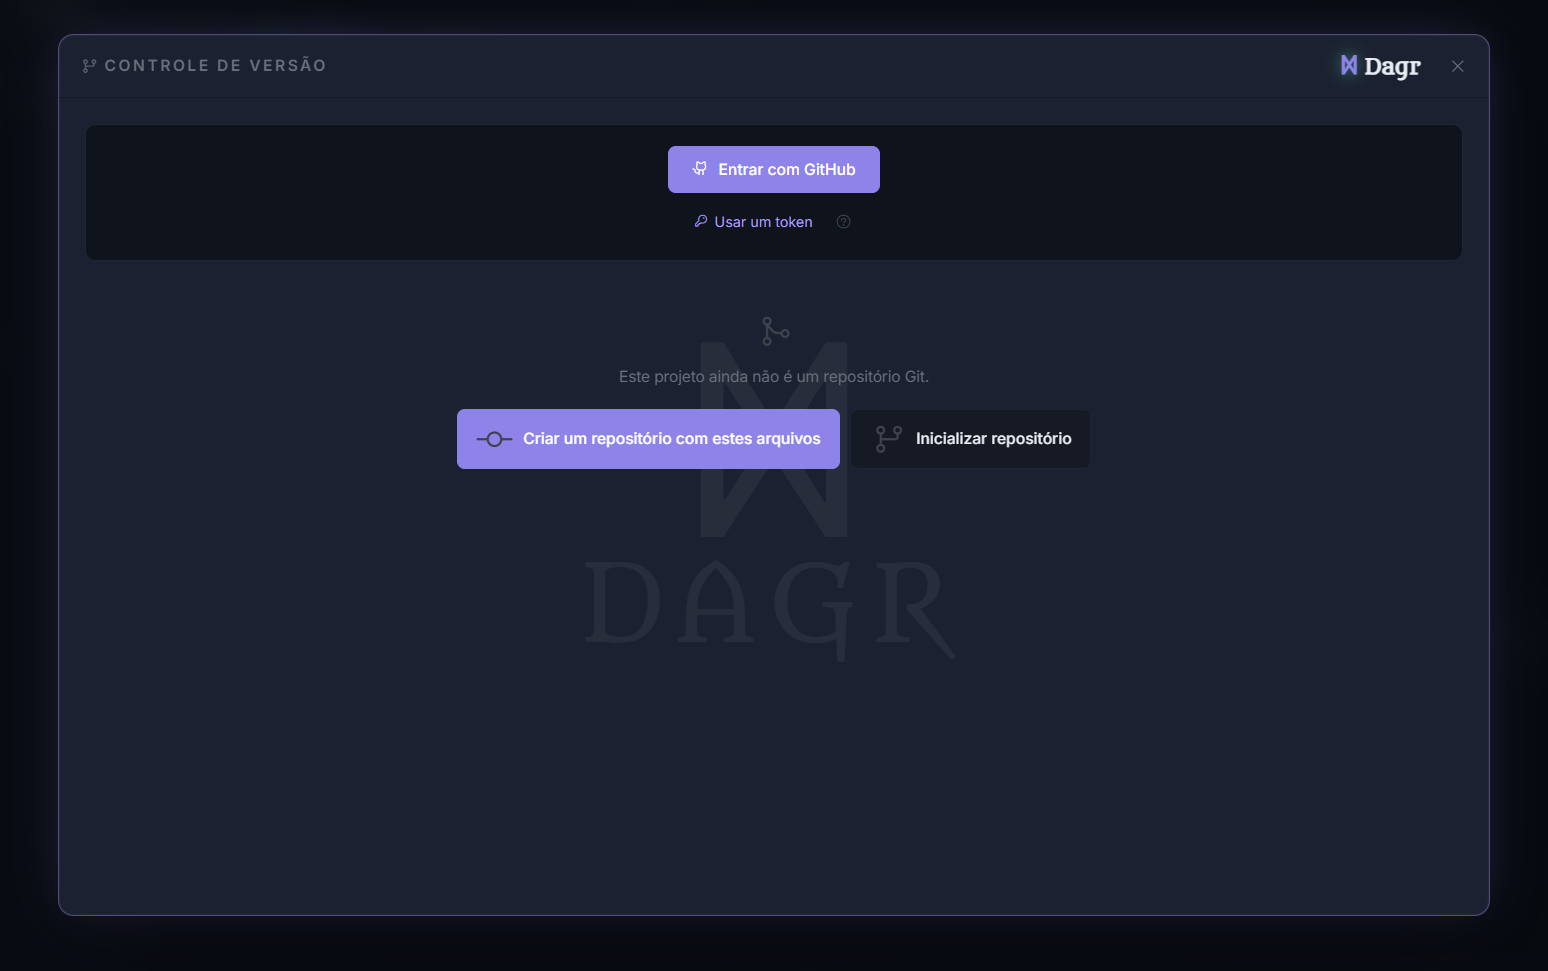
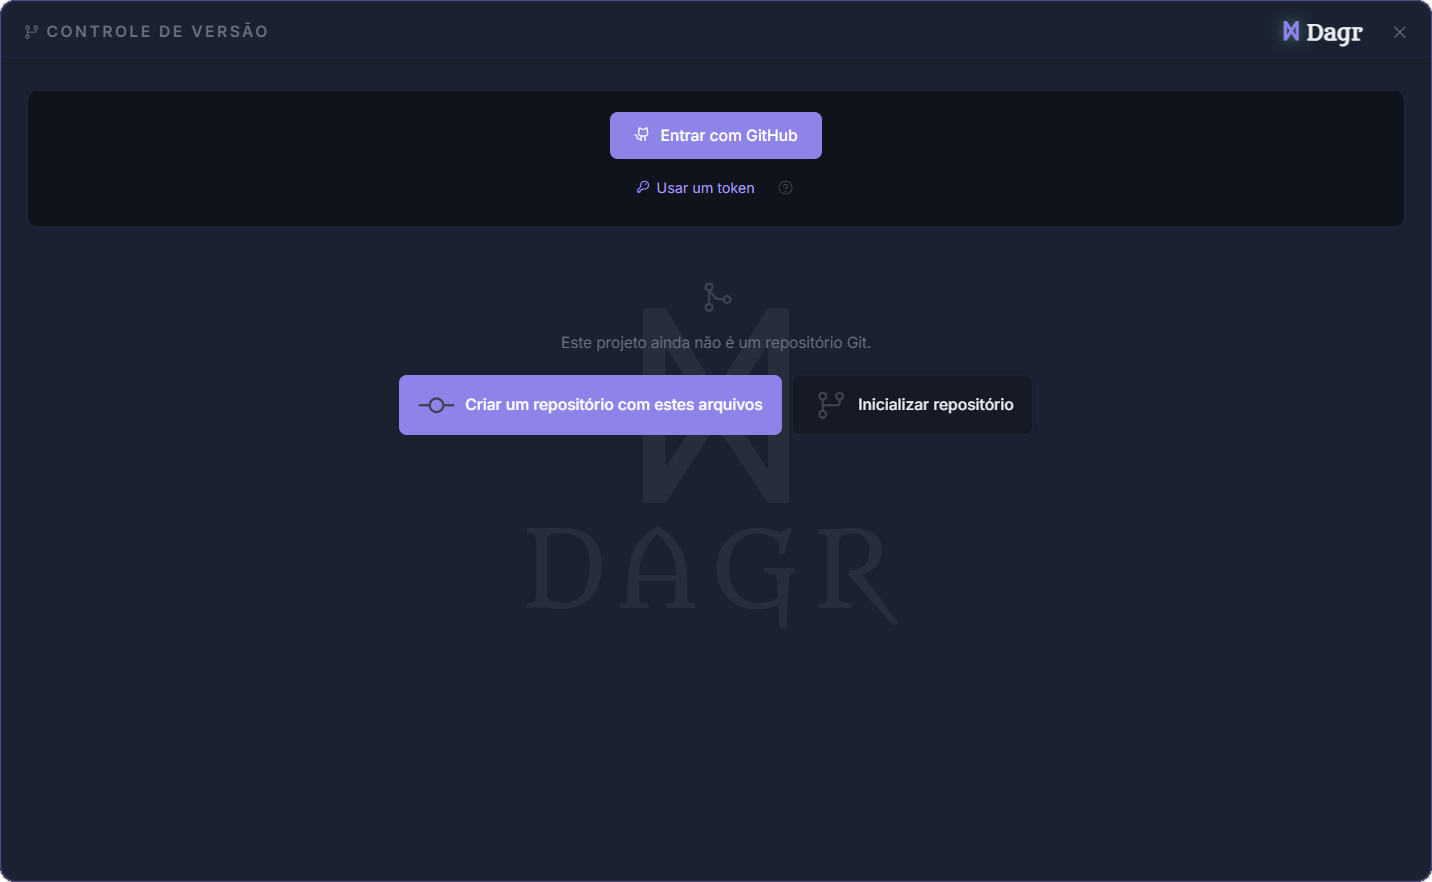
Notacao de Dirac, historico do git e o fluxo de atualizacao em imagem
Entram as tres capturas que faltavam de interface: o editor com a
notacao de Dirac, o painel de controle de versao na aba Historico e a
janela de atualizacao, esta com os tres estados do fluxo (aviso com
changelog, download em progresso e pronta para instalar). Junto vem a
tela de abertura, no capitulo de instalacao.

Entra tambem scripts/enquadrar.py, que corta a sobra de fundo das
capturas e recorta o canto arredondado da janela seguindo o contorno
real, medido a partir das bordas, e nao um raio suposto. Onde o fundo
tem a cor da propria janela e a curva nao aparece por contraste, o raio
medido nos cantos que aparecem vale para os quatro. Rodou nas 60
imagens; as que nao tem moldura nem canto arredondado ficaram como
estavam.

Faltam duas: a onda com delta_float e o PRISM com o divisor, agora com
o passo a passo de captura no IMAGENS.md.

Changed region(s): [[0.0, 0.0, 1.0, 1.0], [0.2765, 0.3673, 0.7067, 0.5204], [0.3994, 0.1224, 0.5838, 0.2449]]

diff --git a/scripts/enquadrar.py b/scripts/enquadrar.py
@@ -1,0 +1,251 @@
+# -*- coding: utf-8 -*-
+"""Enquadra capturas de tela: corta a sobra e recorta o canto arredondado.
+
+Uma captura de janela quase sempre traz uma faixa do que estava atras dela, e
+a janela do Windows tem canto arredondado: recortada no retangulo, ela fica
+com quatro quinas de fundo estranho grudadas, que no manual aparecem como
+sujeira sobre o papel branco do PDF e sobre o tema claro do HTML.
+
+O contorno nao e adivinhado por um raio. O que sai e o que a imagem mostra:
+partindo das quatro bordas, tudo que for da cor do fundo e estiver ligado a
+elas e marcado como lado de fora. Isso segue a curva real do canto, qualquer
+que seja ela, e preserva areas vazias no meio da janela (um painel de arquivos
+sem arquivos, por exemplo), porque essas nao encostam na borda.
+
+O que fica de fora vira transparente; o resto e cortado no retangulo minimo.
+
+Uso:
+    python scripts/enquadrar.py --conferir         so relata
+    python scripts/enquadrar.py --todas            aplica na pasta padrao
+    python scripts/enquadrar.py a.png b.png        aplica nesses arquivos
+"""
+import argparse
+import sys
+from pathlib import Path
+
+import numpy as np
+from PIL import Image, ImageDraw
+from scipy import ndimage
+
+PASTA = Path(__file__).resolve().parent.parent / "source" / "_static" / "assets" / "screenshots"
+
+# Quanto um pixel pode se afastar da cor do fundo e ainda contar como fundo.
+# Baixo demais deixa uma franja da cor do fundo no contorno; alto demais come
+# a borda escura da propria janela.
+TOLERANCIA = 30
+
+# Se o lado de fora ocupar mais que isto, a deteccao provavelmente vazou para
+# dentro da janela por uma passagem da mesma cor, e a imagem fica como esta.
+FRACAO_MAXIMA = 0.45
+
+
+def ja_tratada(caminho):
+    """Uma imagem com canto transparente ja passou por aqui.
+
+    Sem esta guarda, rodar de novo achataria o alfa sobre preto e mediria
+    tudo outra vez em cima do resultado anterior, encolhendo a figura a cada
+    passagem. Assim o comando pode ser repetido a vontade.
+    """
+    im = Image.open(caminho)
+    if im.mode != "RGBA":
+        return False
+    alfa = np.asarray(im)[:, :, 3]
+    return bool((alfa == 0).any())
+
+
+def analisa(caminho):
+    im = Image.open(caminho).convert("RGB")
+    a = np.asarray(im).astype(np.int16)
+    h, w, _ = a.shape
+
+    # O fundo e procurado borda a borda, e nao pelos quatro cantos juntos: um
+    # cartao pode encostar no topo da captura e ter sobra so embaixo, e exigir
+    # que os quatro cantos concordem descartaria justamente esses casos.
+    bordas = {
+        "topo": a[0, :, :],
+        "base": a[h - 1, :, :],
+        "esq": a[:, 0, :],
+        "dir": a[:, w - 1, :],
+    }
+
+    fora = np.zeros((h, w), dtype=bool)
+    usadas = []
+    for nome, linha in bordas.items():
+        cor = np.median(linha, axis=0)
+        # A borda so vale como fundo se for quase toda de uma cor: uma borda
+        # que corta conteudo nao diz nada sobre o que esta atras da janela.
+        if (np.abs(linha - cor).max(axis=1) <= TOLERANCIA).mean() < 0.8:
+            continue
+        parecido = np.abs(a - cor).max(axis=2) <= TOLERANCIA
+        rot, _ = ndimage.label(parecido)
+        if nome == "topo":
+            tocam = set(rot[0, :])
+        elif nome == "base":
+            tocam = set(rot[-1, :])
+        elif nome == "esq":
+            tocam = set(rot[:, 0])
+        else:
+            tocam = set(rot[:, -1])
+        tocam.discard(0)
+        if not tocam:
+            continue
+        candidato = np.isin(rot, list(tocam))
+        # Uma unica borda nao pode reivindicar quase a imagem toda: quando
+        # isso acontece, a varredura atravessou a moldura e entrou na janela.
+        if candidato.mean() > FRACAO_MAXIMA:
+            continue
+        fora |= candidato
+        usadas.append(nome)
+
+    if not usadas:
+        return im, a, None, "sem moldura reconhecivel"
+    if fora.mean() > FRACAO_MAXIMA:
+        return im, a, None, f"deteccao vazou ({fora.mean():.0%} viraria fora)"
+
+    return im, a, fora, None
+
+
+def canto_arredondado(a, alfa, x0, y0, dx, dy, lado):
+    """Marca como fora a curva de um canto, olhando so dentro de uma caixa.
+
+    A varredura global nao serve aqui: numa janela escura sobre uma area de
+    trabalho escura ela atravessa a moldura e come a janela inteira. Presa a
+    uma caixa do tamanho do canto, ela no maximo erra o canto, e o teste de
+    area logo abaixo pega esse erro.
+    """
+    h, w, _ = a.shape
+    caixa = a[y0:y0 + dy * lado:dy, x0:x0 + dx * lado:dx] if False else None
+    ys = range(y0, y0 + lado) if dy > 0 else range(y0, y0 - lado, -1)
+    xs = range(x0, x0 + lado) if dx > 0 else range(x0, x0 - lado, -1)
+    ys = [y for y in ys if 0 <= y < h]
+    xs = [x for x in xs if 0 <= x < w]
+    if not ys or not xs:
+        return 0
+
+    sub = a[np.ix_(ys, xs)].astype(np.int16)
+    cor = sub[0, 0]
+    parecido = np.abs(sub - cor).max(axis=2) <= TOLERANCIA
+
+    rot, _ = ndimage.label(parecido)
+    if rot[0, 0] == 0:
+        return 0
+    fora = rot == rot[0, 0]
+
+    # Quanto um canto pode ocupar nao e chute: a area entre o quadrado e o
+    # arco de raio r vale r*r*(1 - pi/4), cerca de 21% da caixa mesmo quando
+    # o raio e a caixa inteira. Acima disso a caixa tem area lisa, nao canto.
+    if fora.mean() > 0.25:
+        return 0
+
+    for i, y in enumerate(ys):
+        for j, x in enumerate(xs):
+            if fora[i, j]:
+                alfa[y, x] = 0
+    return int(fora.sum())
+
+
+def arredonda_cantos(a, alfa):
+    """Corta os quatro cantos e devolve quantos pixels saíram.
+
+    Quando so alguns cantos se revelam pela cor, o raio medido neles vale para
+    todos: a area entre o quadrado e o arco e r*r*(1 - pi/4), entao o raio sai
+    da contagem de pixels de um canto. E o caso comum de um cartao sobre um
+    fundo quase da mesma cor, em que a curva existe mas nao tem contraste para
+    ser vista de baixo, so de cima.
+    """
+    h, w, _ = a.shape
+    lado = max(8, min(48, min(h, w) // 12))
+    cantos = [
+        canto_arredondado(a, alfa, 0, 0, 1, 1, lado),
+        canto_arredondado(a, alfa, w - 1, 0, -1, 1, lado),
+        canto_arredondado(a, alfa, 0, h - 1, 1, -1, lado),
+        canto_arredondado(a, alfa, w - 1, h - 1, -1, -1, lado),
+    ]
+    achados = [c for c in cantos if c > 0]
+    if not achados or len(achados) == 4:
+        return sum(cantos)
+
+    raio = int(round((sum(achados) / len(achados) / (1 - np.pi / 4)) ** 0.5))
+    if raio < 2 or raio > min(h, w) // 4:
+        return sum(cantos)
+
+    mascara = Image.new("L", (w * 4, h * 4), 0)
+    ImageDraw.Draw(mascara).rounded_rectangle((0, 0, w * 4 - 1, h * 4 - 1),
+                                              radius=raio * 4, fill=255)
+    uniforme = np.asarray(mascara.resize((w, h), Image.LANCZOS))
+    alfa[:] = np.minimum(alfa, uniforme)
+    return int((alfa == 0).sum())
+
+
+def enquadra(caminho, aplicar):
+    nome = caminho.name
+    if ja_tratada(caminho):
+        im = Image.open(caminho)
+        return f"  {nome:34s} {im.width}x{im.height}  ja enquadrada"
+
+    im, a, fora, motivo = analisa(caminho)
+
+    if fora is None:
+        # Sem moldura para cortar, ainda pode haver canto arredondado dentro
+        # da propria captura: uma janela nao maximizada, por exemplo.
+        alfa = np.full(a.shape[:2], 255, dtype=np.uint8)
+        n = arredonda_cantos(a, alfa)
+        if n == 0:
+            return f"  {nome:34s} {im.width}x{im.height}  {motivo}, cantos retos"
+        if aplicar:
+            salva(im, a, alfa, caminho)
+        return f"  {nome:34s} {im.width}x{im.height}  {motivo}, cantos {n}px"
+
+    dentro = ~fora
+    ys, xs = np.where(dentro)
+    if not len(ys):
+        return f"  {nome:34s} {im.width}x{im.height}  nada sobrou, nao mexi"
+    topo, base, esq, dir_ = int(ys.min()), int(ys.max()) + 1, int(xs.min()), int(xs.max()) + 1
+
+    corte = np.asarray(im)[topo:base, esq:dir_]
+    resto = fora[topo:base, esq:dir_]
+
+    # Depois do corte, o que sobra de fundo deveria ser so a curva dos quatro
+    # cantos. Se for muito mais que isso, o fundo entra pelo conteudo (uma
+    # onda do GTKWave sobre papel da mesma cor da moldura, por exemplo) e
+    # apagar aquilo comeria a figura: nesse caso, corta e nao mexe no alfa.
+    fino = resto.mean() <= 0.005
+    alfa = np.where(resto, 0, 255).astype(np.uint8) if fino else np.full(corte.shape[:2], 255, np.uint8)
+    cantos = arredonda_cantos(corte, alfa)
+
+    sobra = (esq, topo, im.width - dir_, im.height - base)
+    nota = "" if fino else f"  (fundo invade {resto.mean():.0%}, so cortei)"
+    if aplicar:
+        salva(im, corte, alfa, caminho)
+    return (f"  {nome:34s} {im.width}x{im.height} -> {dir_ - esq}x{base - topo}"
+            f"  sobra {sobra}  alfa {int((alfa == 0).sum())}px{nota}")
+
+
+def salva(im, rgb, alfa, caminho):
+    """Grava com o contorno suavizado: o alfa binario deixa a curva serrilhada,
+    e meio pixel de desfoque nele limpa a curva sem tocar no conteudo."""
+    suave = ndimage.gaussian_filter(alfa.astype(np.float32), sigma=0.6)
+    saida = Image.fromarray(np.dstack([np.asarray(rgb, dtype=np.uint8),
+                                       suave.astype(np.uint8)]), "RGBA")
+    saida.save(caminho)
+
+
+def main():
+    ap = argparse.ArgumentParser()
+    ap.add_argument("arquivos", nargs="*", type=Path)
+    ap.add_argument("--todas", action="store_true")
+    ap.add_argument("--conferir", action="store_true")
+    args = ap.parse_args()
+
+    alvos = list(args.arquivos) or sorted(PASTA.glob("*.png"))
+    aplicar = not args.conferir
+    print(("aplicando em" if aplicar else "conferindo"), len(alvos), "arquivos")
+    for a in alvos:
+        try:
+            print(enquadra(a, aplicar))
+        except Exception as e:
+            print(f"  {a.name:34s} ERRO: {e}", file=sys.stderr)
+
+
+if __name__ == "__main__":
+    main()

diff --git a/IMAGENS.md b/IMAGENS.md
@@ -1,6 +1,6 @@
 # Lista de capturas de tela do manual
 
-Situação em 17/08/2026, noite: **53 capturas prontas, 5 faltando.**
+Situação em 20/08/2026: **57 capturas prontas, 2 faltando.**
 
 As que faltam continuam como imagem cinza de espera em `source/_static/assets/screenshots/`, com os dizeres `CAPTURA PENDENTE` e o nome do arquivo. Para completar, basta salvar o PNG novo por cima, com o mesmo nome, sem tocar em nenhuma página.
 
@@ -16,19 +16,30 @@ Padrão de captura:
 
 ## O que falta capturar
 
-Todas as cinco aparecem em páginas publicadas, então enquanto não forem trocadas o leitor vê o cinza.
+As duas aparecem em páginas publicadas, então enquanto não forem trocadas o leitor vê o cinza.
 
-| Arquivo | Onde aparece | O que deve aparecer |
-|---|---|---|
-| `aurora-prism-divisor.png` | Primeiro processador | PRISM depois de trocar `soma >> 2` por `soma / 4` e recompilar, na visão que mostra o divisor dentro da ULA (desça um nível a partir do topo, entre em `ula`). É o par da `aurora-prism-interno.png`, para comparar lado a lado. |
-| `aurora-onda-delta-float.png` | Ponto flutuante | Onda com `delta_float` visível, mostrando o erro de arredondamento por operação. Simule com Icarus e acrescente o sinal na configuração de ondas. |
-| `aurora-rls-dirac.png` | Notação de Dirac | Editor com `proc_rls.cmm` mostrando a notação de Dirac (`⟨w\|x⟩`, `# \|P\|x⟩`) com o realce e o espaçamento dos brackets. |
-| `aurora-dagr-historico.png` | Ferramentas de apoio | Painel de controle de versão na aba Histórico, com o diff de um commit aberto. |
-| `aurora-atualizacao.png` | Ferramentas de apoio | Janela de notificação de atualização com o changelog, se houver atualização disponível na época da captura. |
+### `aurora-onda-delta-float.png`, no capítulo Ponto flutuante
+
+`delta_float` é um sinal de simulação que vive dentro da ULA (`ula.v`): a cada operação de ponto flutuante ele guarda a diferença entre o resultado exato, calculado em precisão dupla pelo simulador, e o que o hardware produziu. É o erro de arredondamento daquela operação, e vale zero fora das operações de float.
+
+Para capturar:
+
+1. Use um processador de ponto flutuante (o `proc_rls` serve) e simule com **Icarus**, não com Verilator: o arnês é só de simulação e o sinal é do tipo `real`.
+2. Na {guilabel}`Configuração de ondas`, o caminho do sinal é `<testbench> → proc → p_<processador> → core → ula → delta_float`. No RLS, `proc_rsl_tb.proc.p_proc_rls.core.ula.delta_float`.
+3. No GTKWave, o sinal precisa virar curva para dizer alguma coisa: botão direito nele, {guilabel}`Data Format` › {guilabel}`Analog` › {guilabel}`Interpolated`, e depois {guilabel}`Insert Analog Height Extension` duas ou três vezes para dar altura à trilha.
+4. Enquadre alguns ciclos do laço, com a trilha de assembly junto, para o erro aparecer saltando a cada operação e voltando a zero entre elas.
+
+### `aurora-prism-divisor.png`, no capítulo Primeiro processador
+
+O PRISM mostra um módulo por vez, e o divisor não está no diagrama de cima: ele é um bloco de dentro da ULA. O caminho é `<processador>` → `p_<processador>` → `core` → `ula`.
+
+Dentro de `ula`, cada operação é um bloco condicionado por `generate if`. Com `soma / 4` o compilador liga `.DIV(1)` e aparece o bloco `my_div`, do tipo `ula_div`; com `soma >> 2` esse bloco não existe e no lugar está `my_shr`, do tipo `ula_shr`.
+
+Para não caçar às cegas: depois de recompilar com `/ 4`, abra o `Hardware/<processador>.v` e confirme que a lista de parâmetros traz `.DIV(1)`. Aí é só descer até `ula` no PRISM e enquadrar a região onde `my_div` aparece. A captura companheira, `aurora-prism-interno.png`, já mostra essa mesma visão sem o divisor, e é com ela que a nova vai ser comparada.
 
 ## O que já está pronto
 
-As 45 abaixo já são capturas reais e não precisam de nada.
+As 57 abaixo já são capturas reais e não precisam de nada.
 
 ### Interface geral (Tour pela interface)
 

diff --git a/source/inicio/instalacao.md b/source/inicio/instalacao.md
@@ -38,6 +38,14 @@ Não execute o instalador como administrador. A atualização automática usa o 
 
 ## Primeiro início
 
+```{figure} ../_static/assets/screenshots/aurora-splash.png
+:alt: Tela de abertura da AURORA, com o logotipo e a barra de carregamento.
+:width: 70%
+:align: center
+
+A tela de abertura enquanto os componentes são conferidos. O rodapé mostra o progresso e a versão.
+```
+
 ```{figure} ../_static/assets/screenshots/aurora-boas-vindas.png
 :alt: Tela de boas-vindas da AURORA com a lista de projetos recentes.
 :width: 100%
@@ -67,6 +75,30 @@ A interface nasce em inglês ou português conforme o sistema. Para trocar: {gui
 
 ## Atualizações
 
-A AURORA verifica atualizações sozinha, alguns segundos após abrir e depois a cada três horas. Quando há versão nova, uma janela mostra as novidades e pergunta se você quer baixar; nada é baixado sem a sua confirmação. Depois de baixada, a atualização se aplica ao fechar o aplicativo.
+A AURORA verifica atualizações sozinha, alguns segundos após abrir e depois a cada três horas. Quando há versão nova, uma janela mostra as novidades e pergunta se você quer baixar; nada é baixado sem a sua confirmação.
+
+```{figure} ../_static/assets/screenshots/aurora-atualizacao.png
+:alt: Janela de atualizacao com a versao nova e a lista de novidades.
+:width: 65%
+:align: center
+
+O aviso traz a versão atual, a nova, o tamanho do pacote e o changelog da release.
+```
+
+O download acontece em segundo plano, com progresso à vista, e ao terminar a AURORA pergunta se pode reiniciar. Quem responder {guilabel}`Instalar depois` não perde nada: a atualização se aplica sozinha no próximo fechamento.
+
+```{list-table}
+:widths: 50 50
+:align: center
+
+* - ```{image} ../_static/assets/screenshots/aurora-atualizacao-baixando.png
+    :alt: Janela mostrando o progresso do download da atualizacao.
+    :width: 100%
+    ```
+  - ```{image} ../_static/assets/screenshots/aurora-atualizacao-pronta.png
+    :alt: Janela avisando que a atualizacao esta pronta para instalar.
+    :width: 100%
+    ```
+```
 
 Próximo passo: {doc}`mapa-da-janela`.
